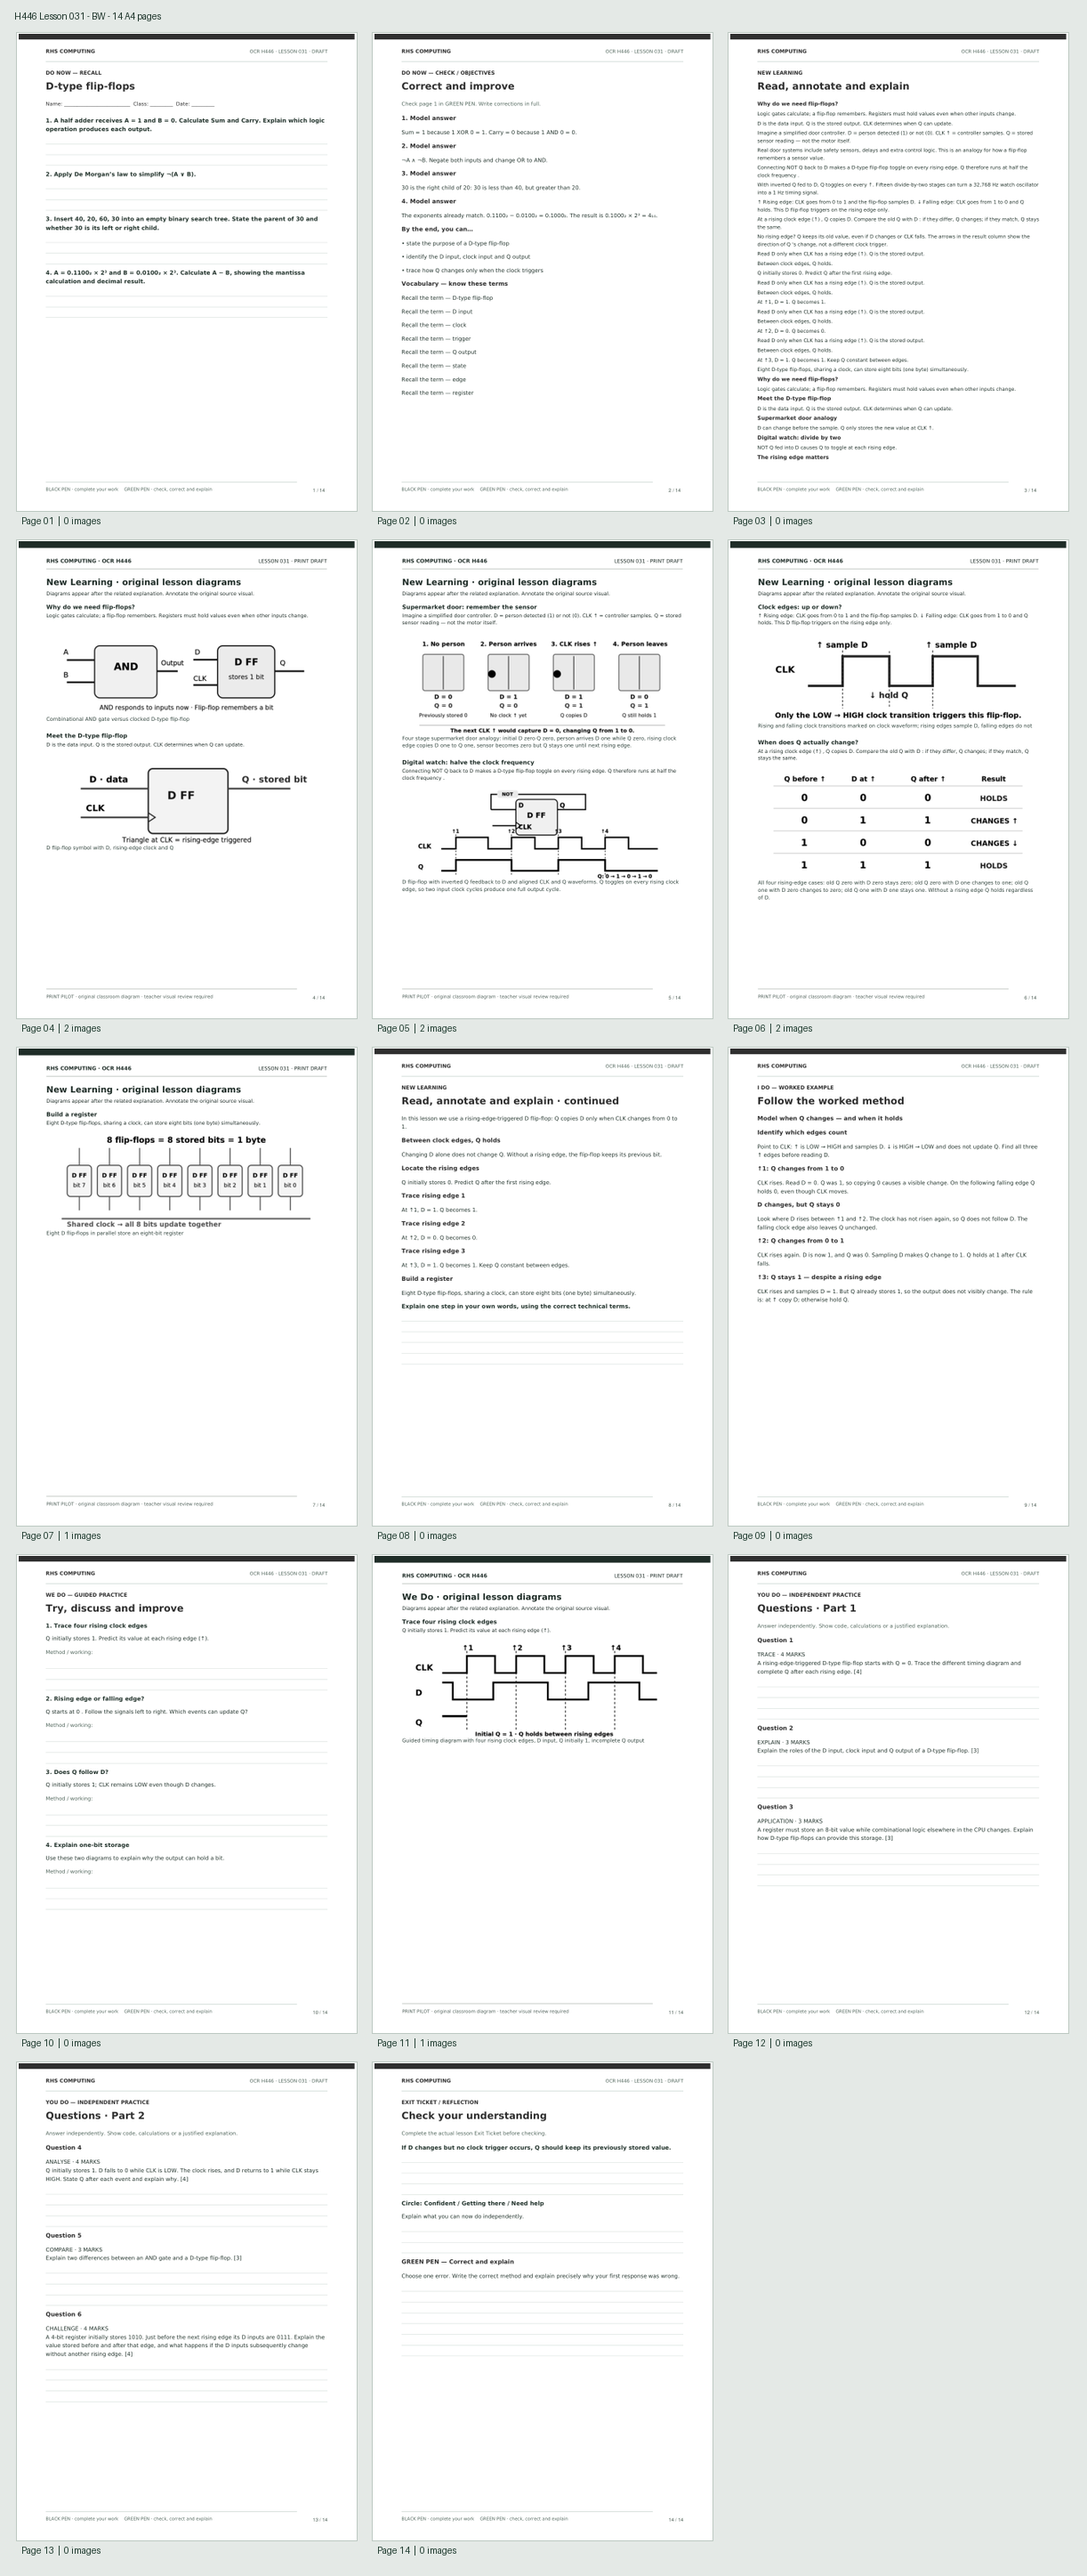
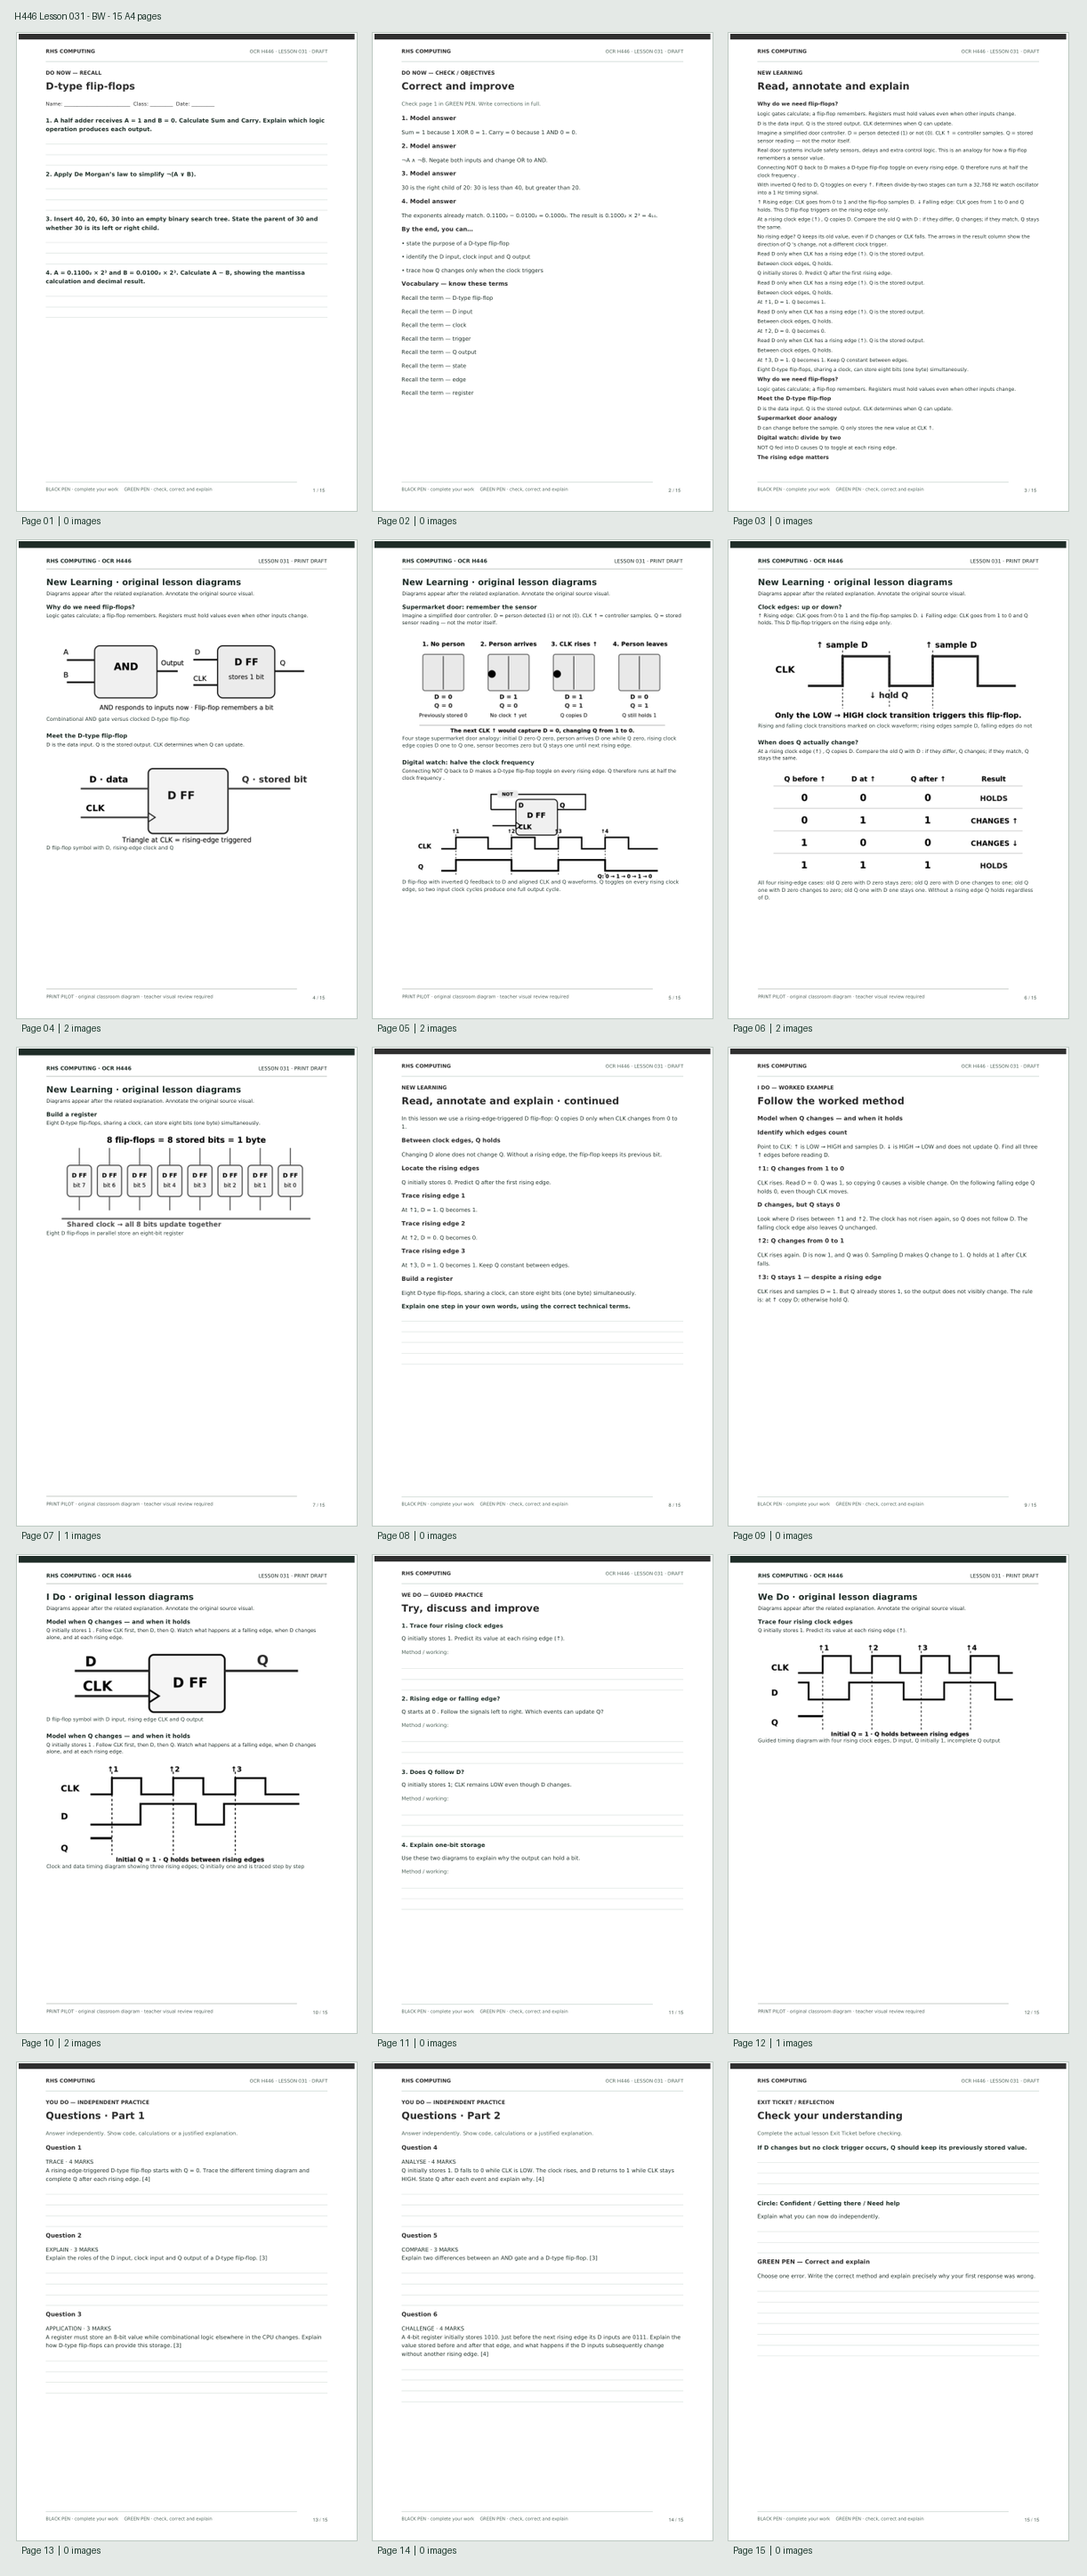
Add rendered-page QA contact sheets for H446 020 and 031

diff --git a/offline/booklets/h446/qa/H446_TWO_PILOT_LAYOUT_AUDIT.md b/offline/booklets/h446/qa/H446_TWO_PILOT_LAYOUT_AUDIT.md
@@ -6,8 +6,8 @@ Read the contact sheets at 100% before releasing these booklets.
 |---|---|---:|---:|---:|
 | 020 | bw | 9 | 1 | 0 |
 | 020 | colour | 9 | 1 | 0 |
-| 031 | bw | 14 | 5 | 0 |
-| 031 | colour | 14 | 5 | 0 |
+| 031 | bw | 15 | 6 | 0 |
+| 031 | colour | 15 | 6 | 0 |
 
-**Notes**: Page 3 and 4 contain source text plus the adjacent diagram inserts. Low nonwhite-ratio or very short text pages should be visually checked. Automated edge-warning counts are conservative because the header/footer approaches the paper edge.
+**Notes**: Original teaching text and restored source diagrams remain on distinct, phase-adjacent pages. Low nonwhite-ratio or very short text pages should be visually checked. Automated edge-warning counts are conservative because the header/footer approaches the paper edge.
 Contact sheets are for human print review; no lesson source, guide or print navigation changed.
